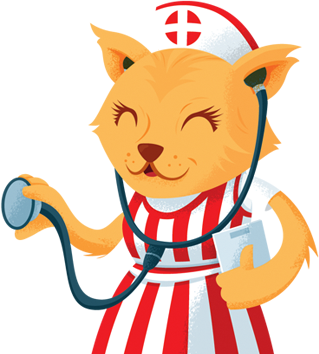
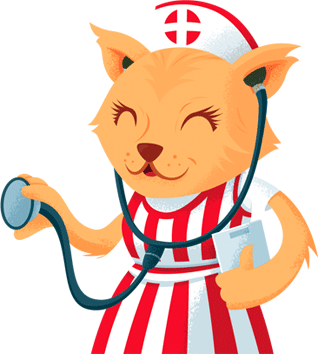
Optimized nurse image and added .gif version for IE6 [bug 609192]

diff --git a/media/css/ie.css b/media/css/ie.css
@@ -59,6 +59,10 @@ div.ans-attachments div.attachment {
     border: 0; /* IE7 */
 }
 
+#featured {
+    /* nurse .gif for IE6 */ 
+    _background: url(../img/nurse.gif) no-repeat scroll right top transparent;
+}
 
 /* IE6 only */
 #quick-links li {
